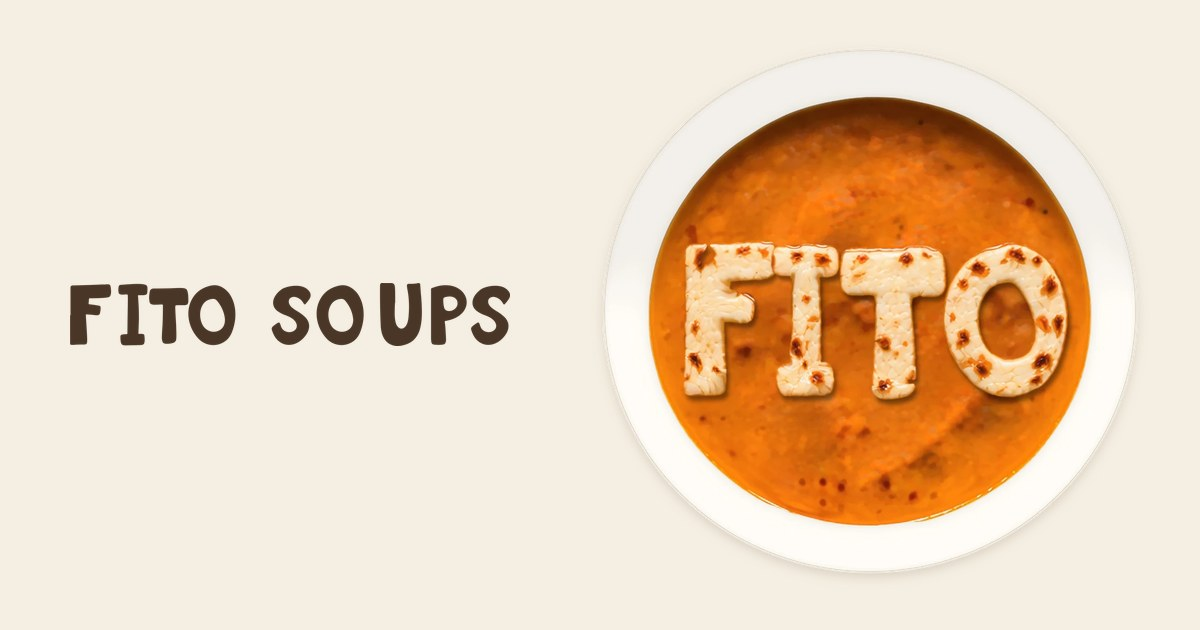
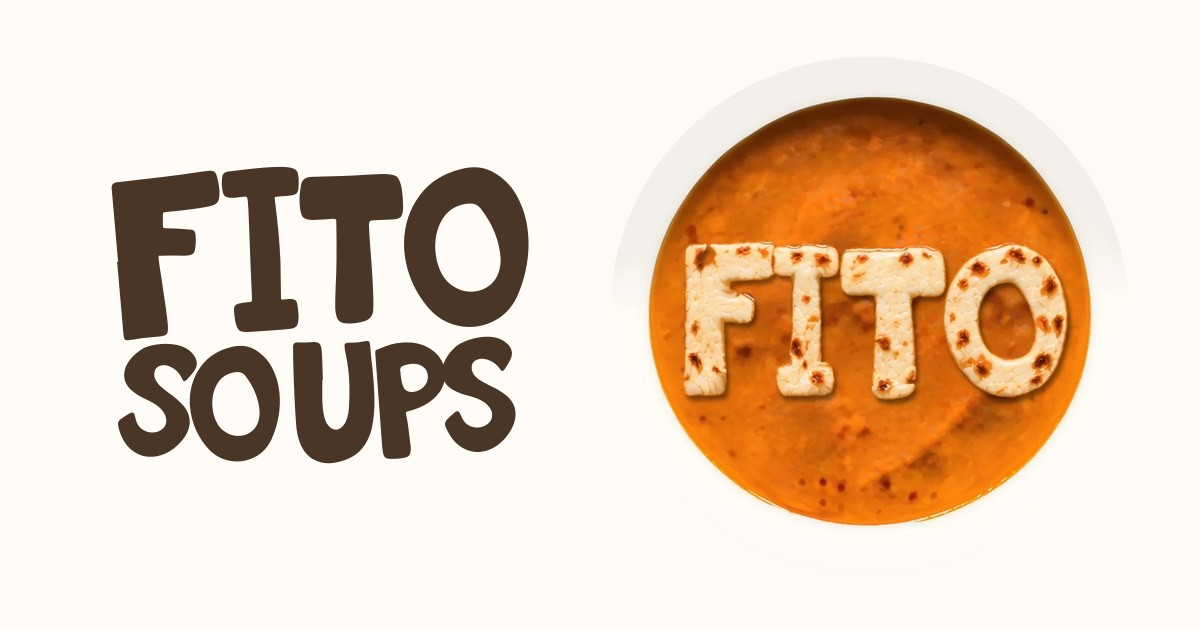
Add files via upload

diff --git a/css/common.css b/css/common.css
@@ -9,13 +9,13 @@
 
 :root{
   color-scheme:light;
-  --paper:#FFFBF7; --tint:#F6EFE6; --tint2:#E9DFCF;
+  --paper:#FFFBF7; --tint:#FFFFFF; --tint2:#F2EFEB; --edge:#EFE7DC;
   /* Paper at 99% for fixed bars and panels: iOS 26 Safari can leave part of the screen blank
      around a fully opaque fixed element. 99% looks identical and avoids it. */
   --paper-fixed:rgba(255,251,247,.99);
   --ink:#3A2E22; --ink2:#6A5A48; --soft:#80705D;
-  --terra:#C1613C; --sage:#6B7A3A; --gold:#E8C766;
-  --rule:#DFD3BE;
+  --terra:#3A2E22; /* update 53: the accent is the brand brown (was orange #C1613C); colour comes from the flavours */ --sage:#6B7A3A; --gold:#E8C766;
+  --rule:#E8DFD1;
   --logo-brown:#493627; --crouton:#A86B32; --crumb:#E9CD98; --crust:#8A5426;
   --disp:'Fraunces',Georgia,serif;
   --script:'Parisienne',cursive;
@@ -27,7 +27,7 @@
 *{box-sizing:border-box}
 img{max-width:100%}
 [hidden]:not([hidden=until-found i]){display:none!important}
-html{-webkit-text-size-adjust:100%;scroll-padding-top:76px} /* in-page links land below the sticky menu */
+html{-webkit-text-size-adjust:100%;scroll-padding-top:96px} /* in-page links land below the sticky menu */
 body{margin:0;background:var(--paper);color:var(--ink);font-family:var(--ui);
   font-size:16.5px;line-height:1.68;-webkit-font-smoothing:antialiased}
 svg{display:block;max-width:100%;height:auto}
@@ -72,11 +72,11 @@ button{font-family:inherit;font-size:inherit;cursor:pointer}
 .site-nav{position:sticky;top:0;z-index:60;background:var(--paper)}
 .site-nav__inner{max-width:1080px;margin:0 auto;padding:11px 26px;display:flex;align-items:center;gap:24px;position:relative}
 .site-nav__brand{flex-shrink:0;display:flex;align-items:center;gap:10px;text-decoration:none}
-.site-nav__wordmark{height:36px;width:auto}
-@media(max-width:480px){.site-nav__wordmark{height:30px}}
-@media(max-width:480px){.site-nav__inner{padding:10px 18px;gap:16px}.site-nav .site-nav__wordmark{height:27px}.site-nav__links{gap:18px}}
+.site-nav__wordmark{height:60px;width:auto;display:block}
+@media(max-width:480px){.site-nav__wordmark{height:46px}}
+@media(max-width:480px){.site-nav__inner{padding:10px 18px;gap:16px}.site-nav .site-nav__wordmark{height:46px}.site-nav__links{gap:18px}}
 /* Very small phones (320 to 359 px wide): shrink the header so the Box button stays on screen. */
-@media(max-width:359px){.site-nav__inner{padding:9px 12px;gap:10px}.site-nav .site-nav__wordmark{height:22px}.site-nav__links{gap:12px}}
+@media(max-width:359px){.site-nav__inner{padding:9px 12px;gap:10px}.site-nav .site-nav__wordmark{height:40px}.site-nav__links{gap:12px}}
 .site-nav__links{margin-left:auto;display:flex;gap:26px;align-items:center}
 .site-nav__links a{text-decoration:none;color:var(--ink2);font-size:.93rem}
 .site-nav__links a:hover{color:var(--terra)}
@@ -97,7 +97,7 @@ button{font-family:inherit;font-size:inherit;cursor:pointer}
 @media(max-width:900px){.site-footer__grid{display:grid;grid-template-columns:repeat(4,auto);justify-content:space-between;gap:30px 24px}.site-footer__about{grid-column:1/-1;max-width:46ch}}
 @media(max-width:600px){.site-footer__grid{grid-template-columns:1fr 1fr;justify-content:stretch;gap:28px 20px}}
 .site-footer__about{max-width:28ch}
-.site-footer__logo{height:30px;width:auto;margin-bottom:16px}
+.site-footer__logo{height:72px;width:auto;margin-bottom:18px}
 .site-footer__tagline,.site-footer__copy{margin:0}
 .site-footer a{color:var(--ink2);text-decoration:none;display:block;margin-bottom:8px}
 .site-footer a.site-social-link{display:flex}
@@ -193,3 +193,8 @@ button{font-family:inherit;font-size:inherit;cursor:pointer}
   color:var(--paper);padding:13px 24px;border-radius:22px;z-index:200;font-size:.93rem;line-height:1.4;text-align:center;
   transition:transform .3s cubic-bezier(.3,.9,.4,1)}
 .site-toast.is-visible{transform:translateY(0);opacity:1}
+
+/* Update 53: cards are white with a soft edge (was beige), matching the sleeves */
+.site-drawer__foot{box-shadow:0 -1px 0 var(--edge)}
+.site-nav__cart-count{background:var(--paper);color:var(--ink)}
+.site-nav__links a:hover,.site-footer a:hover{color:var(--ink);text-decoration:underline;text-underline-offset:4px}

diff --git a/index.html b/index.html
@@ -4,11 +4,11 @@
 <meta charset="utf-8">
 <meta name="viewport" content="width=device-width, initial-scale=1">
 <meta name="color-scheme" content="light">
-<meta name="theme-color" content="#C1613C">
+<meta name="theme-color" content="#FFFBF7">
 <link rel="preconnect" href="https://fonts.googleapis.com">
 <link rel="preconnect" href="https://fonts.gstatic.com" crossorigin>
 <link href="https://fonts.googleapis.com/css2?family=Fraunces:opsz,wght@9..144,400;9..144,600;9..144,700&family=Parisienne&family=Work+Sans:wght@300;400;500;600&display=swap" rel="stylesheet">
-<link rel="stylesheet" href="css/common.css?v=52">
+<link rel="stylesheet" href="css/common.css?v=53">
 <link rel="icon" type="image/png" href="favicon.png">
 <link rel="apple-touch-icon" href="apple-touch-icon.png">
 <title>FITO Soups | Frozen homemade soup cubes delivered in Dubai</title>
@@ -139,7 +139,7 @@
  ]
 }
 </script>
-<link rel="stylesheet" href="css/pages/home.css?v=52">
+<link rel="stylesheet" href="css/pages/home.css?v=53">
 </head>
 <body>
 
@@ -150,7 +150,7 @@
 
 <nav class="site-nav">
   <div class="site-nav__inner">
-    <a class="site-nav__brand" href="#top"><img class="site-nav__wordmark" src="assets/images/logo-wordmark.png" alt="FITO Soups" width="1200" height="174"></a>
+    <a class="site-nav__brand" href="#top"><img class="site-nav__wordmark" src="assets/images/logo-fito.svg" alt="FITO Soups" width="130" height="93"></a>
     <div class="site-nav__links">
       <a href="#flavours">Flavours</a>
       <a href="#build">Build a box</a>
@@ -318,7 +318,7 @@
   <div class="site-wrap">
     <div class="early-subs">
       <h2>Early subscribers.</h2>
-      <p class="early-subs__lede">Fifty places for Dubai, open now ahead of our first deliveries on Saturday 7 November 2026. Book your soupscription today. You get the first boxes we make, and a hand in what comes next.</p>
+      <p class="early-subs__lede">Fifty places for Dubai, open now. Book your soupscription today: you get first taste of every new flavour, and a say in what comes next.</p>
       <div class="early-subs__perks">
         <div class="early-subs__perk">Free delivery on every box</div>
         <div class="early-subs__perk">An extra pack free in your first box</div>
@@ -335,7 +335,7 @@
   <div class="site-wrap">
     <div class="site-footer__grid">
       <div class="site-footer__about">
-        <img class="site-footer__logo" src="assets/images/logo-footer.png" alt="FITO Soups" width="1192" height="170" loading="lazy">
+        <img class="site-footer__logo" src="assets/images/logo-fito.svg" alt="FITO Soups" width="130" height="93" loading="lazy">
         <p class="site-footer__tagline">Frozen soup cubes, portioned and ready when you are. Made in Dubai, in small batches.</p>
       </div>
       <div><h4>Shop</h4><a href="#build">Build a box</a><a href="#build">Subscribe</a><a href="#flavours">Flavours</a></div>
@@ -376,15 +376,15 @@
 </aside>
 <div class="site-toast" id="toast"></div>
 
-<script src="js/common/config.js?v=52"></script>
-<script src="js/common/utils.js?v=52"></script>
-<script src="js/common/catalog.js?v=52"></script>
-<script src="js/common/art.js?v=52"></script>
-<script src="js/common/toast.js?v=52"></script>
-<script src="js/common/drawers.js?v=52"></script>
-<script src="js/common/legal.js?v=52"></script>
-<script src="js/common/reserve.js?v=52"></script>
-<script src="js/common/cart.js?v=52"></script>
-<script src="js/pages/home.js?v=52"></script>
+<script src="js/common/config.js?v=53"></script>
+<script src="js/common/utils.js?v=53"></script>
+<script src="js/common/catalog.js?v=53"></script>
+<script src="js/common/art.js?v=53"></script>
+<script src="js/common/toast.js?v=53"></script>
+<script src="js/common/drawers.js?v=53"></script>
+<script src="js/common/legal.js?v=53"></script>
+<script src="js/common/reserve.js?v=53"></script>
+<script src="js/common/cart.js?v=53"></script>
+<script src="js/pages/home.js?v=53"></script>
 </body>
 </html>

diff --git a/css/pages/home.css b/css/pages/home.css
@@ -276,7 +276,7 @@ button.cal__day.is-full{background:transparent;border-style:dashed;color:var(--s
 @media(max-width:480px){.box-picker-row{gap:10px;padding:12px 12px}.box-picker-row__thumb{width:50px;flex-basis:50px}.box-picker-row__name{font-size:1.45rem;overflow-wrap:normal;word-break:keep-all}}
 
 /* ---------- Box summary (right-hand panel) ---------- */
-.box-summary{background:var(--tint);border-radius:18px;padding:28px;position:sticky;top:84px}
+.box-summary{background:var(--tint);border-radius:18px;padding:28px;position:sticky;top:104px}
 .early-sub-flag{background:var(--paper);color:var(--ink);border:1px solid var(--rule);border-radius:12px;padding:14px 16px;margin-bottom:20px}
 .early-sub-flag[hidden]{display:none}
 .early-sub-flag strong{display:block;font-size:.72rem;letter-spacing:.11em;text-transform:uppercase;
@@ -421,3 +421,8 @@ button.cal__day.is-full{background:transparent;border-style:dashed;color:var(--s
 .stock-note{display:block;margin-top:6px;font-size:.74rem;font-weight:700;letter-spacing:.02em}
 .stock-note:empty{display:none}
 .qty-stepper button.is-at-limit{opacity:.35}
+
+/* Update 53: white cards with a soft edge, matching the sleeves */
+.flavour-card,.pack-explainer,.box-schedule,.box-picker-row,.box-builder__plan,.savings-track,.box-summary,.review-card,.early-subs,.home-stats{box-shadow:0 0 0 1px var(--edge)}
+.box-builder__plan::before{box-shadow:-1px -1px 0 var(--edge)}
+.qty-stepper button{background:var(--tint2)}

diff --git a/js/pages/home.js b/js/pages/home.js
@@ -213,7 +213,7 @@ document.getElementById('picker').innerHTML=FLAVOURS.map(f=>f.avail?`
     <div class="box-picker-row__thumb">${cube(f.c,64)}</div>
     <div>
       <div class="box-picker-row__name" style="color:${shade(f.c,-38)}">${nameArt(f)}</div>
-      <div class="box-picker-row__meta">${money(PRICE).replace(' ','&nbsp;')} a&nbsp;pack<br><span class="cubes-pill" style="color:${shade(f.c,-34)};background:${f.c}26">${CUBES} cubes = ${SERV} bowls</span>${f.stock?`<span class="stock-note" id="s-${f.id}" style="color:${shade(f.c,-30)}"></span>`:''}</div>
+      <div class="box-picker-row__meta">${money(PRICE).replace(' ','&nbsp;')} a&nbsp;pack<br><span class="cubes-pill" style="color:${shade(f.c,-34)};background:${f.c}26">${CUBES} cubes &asymp; ${SERV} bowls</span>${f.stock?`<span class="stock-note" id="s-${f.id}" style="color:${shade(f.c,-30)}"></span>`:''}</div>
       <details class="ingredients-toggle"><summary>Ingredients</summary><p>${f.ing}<br><em>${f.diet.join(' · ')}${f.note?' · '+f.note:''}</em></p></details>
     </div>
     <div class="qty-stepper">

diff --git a/js/common/catalog.js b/js/common/catalog.js
@@ -25,7 +25,7 @@ const slotDays=(mode,first)=>Array.from({length:mode==='sub'?3:1},(_,k)=>{const 
 const delFor=m=>m==='sub'?0:DELIVERY;
 
 const FLAVOURS=[
-  {id:'caramel',name:'Caramel',c:'#DB7814',sub:'Sweet potato & butternut squash',tag:'Best seller',avail:true,
+  {id:'caramel',name:'Caramel',c:'#DB7814',sub:'Butternut squash & sweet potato',tag:'Best seller',avail:true,
    desc:'Velvety and naturally sweet, warmed through with cinnamon and nutmeg.',
    ing:'Butternut squash, water, sweet potato, red onion, honey, olive oil, salt, cinnamon, nutmeg, black pepper.',
    diet:['Vegetarian','No gluten'],note:'Contains honey',ar:''},
